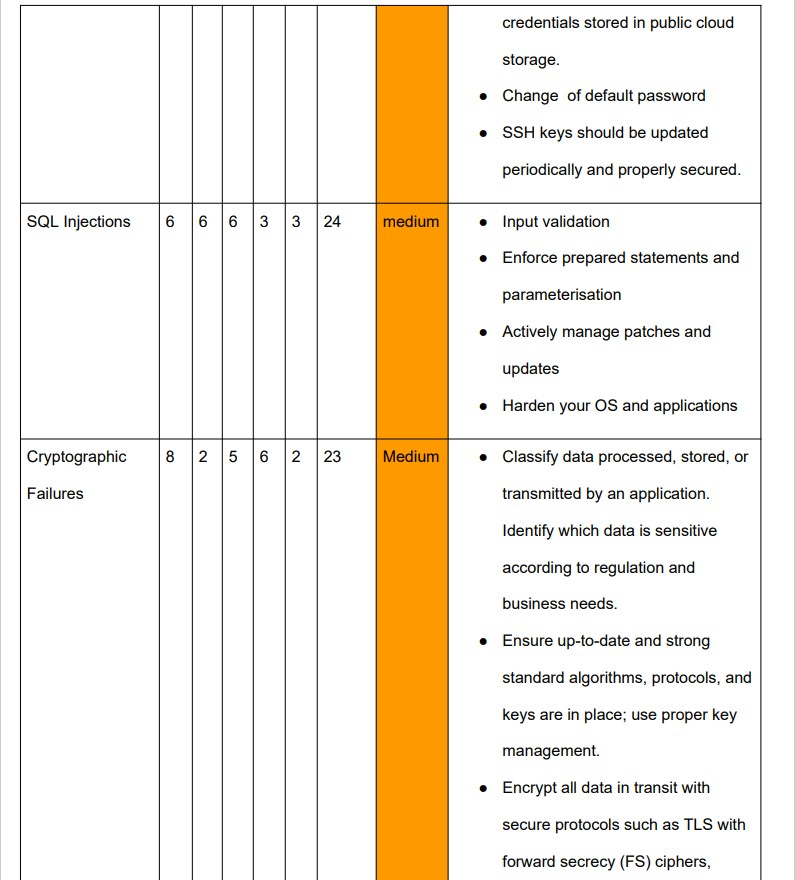
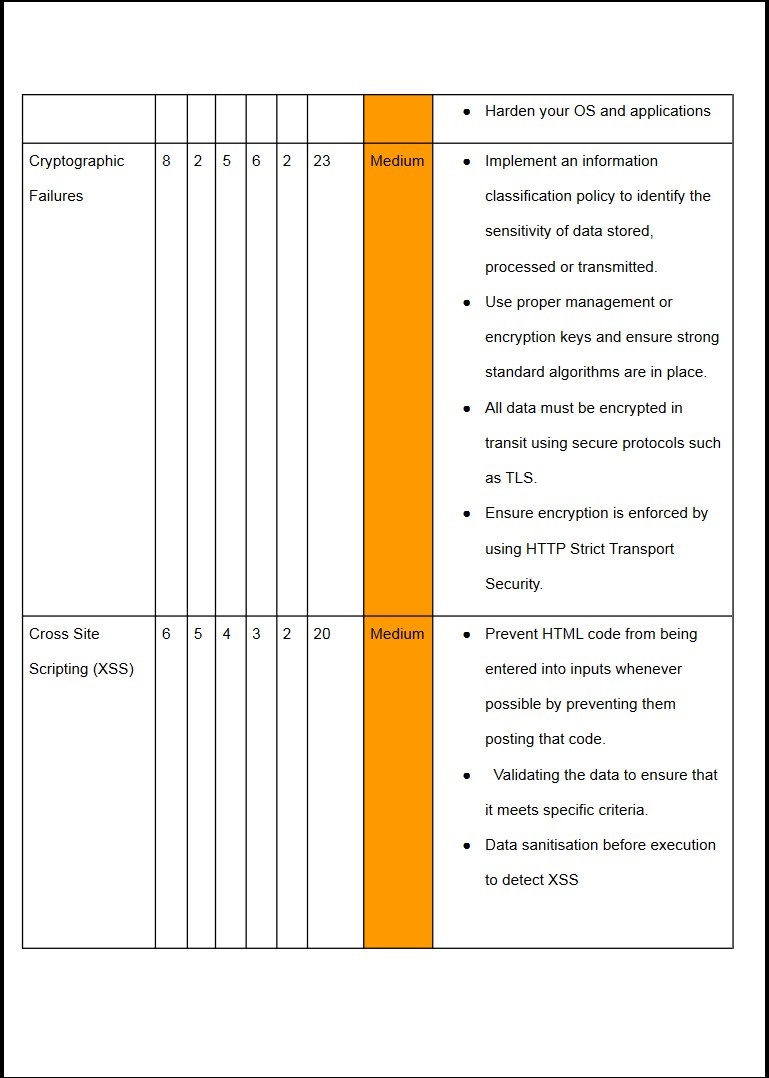
changws

Changed region(s): [[0.0, 0.0, 1.0, 1.0], [0.1873, 0.9818, 0.2809, 1.0], [0.5618, 0.2148, 0.593, 0.2455]]

diff --git a/mod2_.html b/mod2_.html
@@ -1588,54 +1588,51 @@
                                                                           <p> Emails must only be sent to those who opt-in to receive them (including newsletters, sales or not). To maintain 
                                                                         compliance with GDPR, users must have the ability to unsubscribe from blog emails after signing up. Most email 
                                                                         software will do this automatically, but you must not remove the 'unsubscribe' link by accident. Subscribers
-                                                                         should be able to easily unsubscribe themselves from your email list by following simple steps.</p>  
-                                                                        
-
-
-
-                                  
-                                  <button type="button" class="collapsible sub-collapsible sub-button">
-                                    <li>
-                                      <h4><b>DEVELOPMENT TEAM PROJECT: DESIGN DOCUMENT </b></h4>
-                                    </li>
-                                  </button>
-                                  <div class="content">
-                                    <p>
-                                      <h4><b> LEARNING OBJECTIVES</b></h4>
-                                    </p>
-                                      <p>
-                                        <li>Analyze and identify security risks and vulnerabilities in IT network systems and devise methods, tools, and techniques to manage and/or resolve them.</li>
-                                        </p>
-                                        <p>
-                                          <li> The goal is to develop solutions that help manage and audit risk and security by critically evaluating computer programs and systems.</li>
-                                    </p>
-                                    <p>
-                                      <li>Explain the legal, social, ethical, and professional issues faced by information security professionals</li>
-                                    </p>
+                                                                         should be able to easily unsubscribe themselves from your email list by following simple steps.</p>
+                                                                         <div class="row">
+                                                                          <center>
+                                                                            <div class="col-md-12">
+                                                                              <img class="img-responsive border" alt="" src="assets\img\Screenshot unit 6 new 1.jpg"
+                                                                                ali="center">  
+                                                                                </center>
+                                                                         </div>
+                                                                         <hr><p><h6> 4.0 VULNERABILITIES IN WEB DESIGN</p></h6><hr>
+                                                                         <p>GDPR requires data protection by design; in order to meet this requirement, the website must be built with 
+                                                                         security features and take into consideration vulnerabilities that could impact the personal data stored on
+                                                                          the site. Threat modelling should be completed for critical authentication, access control, business logic,
+                                                                           and key flows and plausibility checks integrated at each tier of the application (OWASP, 2021). 
+                                                                           The OWASP (2021) top 10 vulnerabilities can be used to advise on the highest security risks to web
+                                                                            applications and should be a focus when designing any site that holds personal information. Applying 
+                                                                            mitigating actions against each vulnerability can protect an organisation from GDPR breaches
+                                                                             (Vagenas & Iakovakis, 2019).</p> 
+                                                                         
+                                                                          <hr><p><h6>4.1 POTENTIAL VULNERABILITIES </p></h6><hr>
+                                                                          <p><li> SQL Injection</li></p>
+                                                                            <p><li>Cross-Site Scripting (XSS)</li></p>
+                                                                              <p><li>Cross-Site Request Forgery (CSRF)</li></p>
+                                                                                <p><li>Security Misconfiguration</li></p>
+                                                                                  <p><li>Insufficient Logging & Monitoring</li></p>
+                                                                                    <p><li> Cryptographic Failures</li></p>
+                                                                                      <p><li>Broken Access Control</li></p>
+                                                                                        <p><li> Vulnerable and Outdated Components</li></p>
+                                                                                          <p><li> Software and Data Integrity Failures</li></p>
+                                                                                            <p><li> Improper error handling </li></p>
+                                                                                              <p><li> Open ports</li></p>
+                                                                                                <p><li>Weak log in credentials</li></p>
+                                                                                                <hr><p><h6>5.0 VULNERABILITY RISK ASSESSMENT & RECOMMENDATIONS</p></h6><hr>
+                                                                                                <p> Following the identification of potential vulnerabilities to the site, they have been assessed
+                                                                                                 using a DREAD analysis (Mackman et al, 2003). A rating of 1-10 was used for each category and
+                                                                                                  then scored according to low, medium and high risk to the website. Business priority should be
+                                                                                                   addressing the high risks first.</p>
+                                                                                                  </div>
+                                                                                                  <button type="button" class="collapsible sub-collapsible sub-button">
+                                                                                                   
+                                                                                                
+                                                                                                    
+                                                                                                  
                                   <div class="row">
                                     <center>
-                                      <div class="col-md-12">
-                                        <img class="img-responsive border" alt="" src="assets\img\Screenshot unit 6-1.jpg"
-                                          ali="center">
-                                      </div>
-                                      <hr>
-                                      <div class="col-md-12">
-                                        <img class="img-responsive border" alt=""
-                                          src="assets\img\Screenshot unit 6-2.jpg
-                                          " ali="center"></p>
-                                        </div>
-                                        <hr>
-                                        <div class="col-md-12">
-                                          <img class="img-responsive border" alt=""
-                                            src="assets\img\Screenshot unit 6-3.jpg" ali="center"></p>
-                                          </div>
-                                          <hr>
-                                          <div class="col-md-12">
-                                            <img class="img-responsive border" alt=""
-                                              src="assets\img\Screenshot unit 6-4.jpg
-                                              " ali="center"></p>
-                                            </div>
-                                            <hr>
+                                     
                                           <div class="col-md-12">
                                             <img class="img-responsive border" alt=""
                                               src="assets\img\Screenshot unit 6-5.jpg
@@ -1657,28 +1654,42 @@
                                             <img class="img-responsive border" alt=""
                                               src="assets\assets\img\Screenshot unit 6-8.jpg
                                               " ali="center"></p>
-                                            </div>
-                                            <hr>
-                                          <div class="col-md-12">
-                                            <img class="img-responsive border" alt=""
-                                              src="assets\img\Screenshot unit 6-9.jpg
-                                              " ali="center"></p>
-                                            </div>
-                                            <hr>
-                                          <div class="col-md-12">
-                                            <img class="img-responsive border" alt=""
-                                              src="assets\img\Screenshot unit 6-10.jpg
-                                              " ali="center"></p>
-                                            </div>
-                                            <hr>
-                                    </center>
-                                </div>
-                              </li>
-                            </p>
-                          </div>
-                          <hr>
-                        <button type="button" class="collapsible sub-collapsible sub-button">
-                          <li>
+                                            </center>
+                                          </div>
+                                    
+                                    <hr><p><h6> 6.0 REFERENCE LIST </p></h6><hr>
+                                  <p>attack.mitre.org. (n.d.). Valid Accounts, Technique T1078 - Enterprise | MITRE ATT&CK®. [online] 
+                                    Available at: https://attack.mitre.org/techniques/T1078/ [Accessed 2 Apr. 2022].</p>
+
+                                   <p> byRosanna. (n.d.). Legal Rules & Guidelines For Bloggers | byRosanna | Squarespace Website Design & Branding UK.
+                                      [online] Available at: https://www.byrosanna.co.uk/blog/legal-guidelines-for-bloggers [Accessed 1 Apr. 2022].</p>
+
+                                   <p> Gov.uk (2018). Data Protection Act. [online] gov.uk. Available at: https://www.gov.uk/data-protection [Accessed 2 Apr. 2022].</p>
+
+                                   <p> iainfoulds (n.d.). Attractive Accounts for Credential Theft. [online] docs.microsoft.com.
+                                      Available at: https://docs.microsoft.com/en-gb/windows-server/identity/ad-ds/plan/security-best-practices/attractive-accounts-for-credential-theft.</p>
+
+                                   <p> Icann.org. (2016). Uniform Domain-Name Dispute-Resolution Policy - ICANN. [online]
+                                      Available at: https://www.icann.org/resources/pages/help/dndr/udrp-en [Accessed 30 Mar. 2022].</p>
+
+                                   <p> Information Commissioner's Office (2019). Guide to the General Data Protection Regulation (GDPR). [online] ico.org.uk. 
+                                     Available at: https://ico.org.uk/for-organisations/guide-to-data-protection/guide-to-the-general-data-protection-regulation-gdpr/ [Accessed 2 Apr. 2022].</p>
+
+                                   <p> Intellectual Property Office (2011). Copyright Acts and Related Laws. [online] GOV.UK. 
+                                     Available at: https://www.gov.uk/government/publications/copyright-acts-and-related-laws [Accessed 30 Mar. 2022].</p>
+
+                                   <p> J. Meier, A. Mackman, M. Dunner, S. Vasireddy, R. Escamilla, and A. Murukan, Improving web application security: threats and countermeasures. Microsoft Redmond, WA, 2003.</p>
+
+                                    <p>OWASP (2021). OWASP Top Ten. [online] Owasp.org. Available at: https://owasp.org/www-project-top-ten/ [Accessed 2 Apr. 2022].</p>
+
+                                   <p> Srinivas (2020). Why Improper Error Handling Happens. [online] Infosec Resources. Available at: 
+                                    https://resources.infosecinstitute.com/topic/why-improper-error-handling-happens/ [Accessed 2 Apr. 2022].</p>
+
+                                  <p>Thai, N.D. and Hieu, N.H. (2019). A Framework for Website Security Assessment. Proceedings of the 2019 7th International Conference
+                                     on Computer and Communications Management.
+                                    Vagenas, P. and Iakovakis, G. (2019). The Combination of OWASP Top 10 and GDPR regulation as a Restraining Tool Against Cyber-crime.</p>
+                                    
+                                  </div>
                           <h4><b>UNIT REFLECTION</b></h4>
                           </li>
                         </button>
